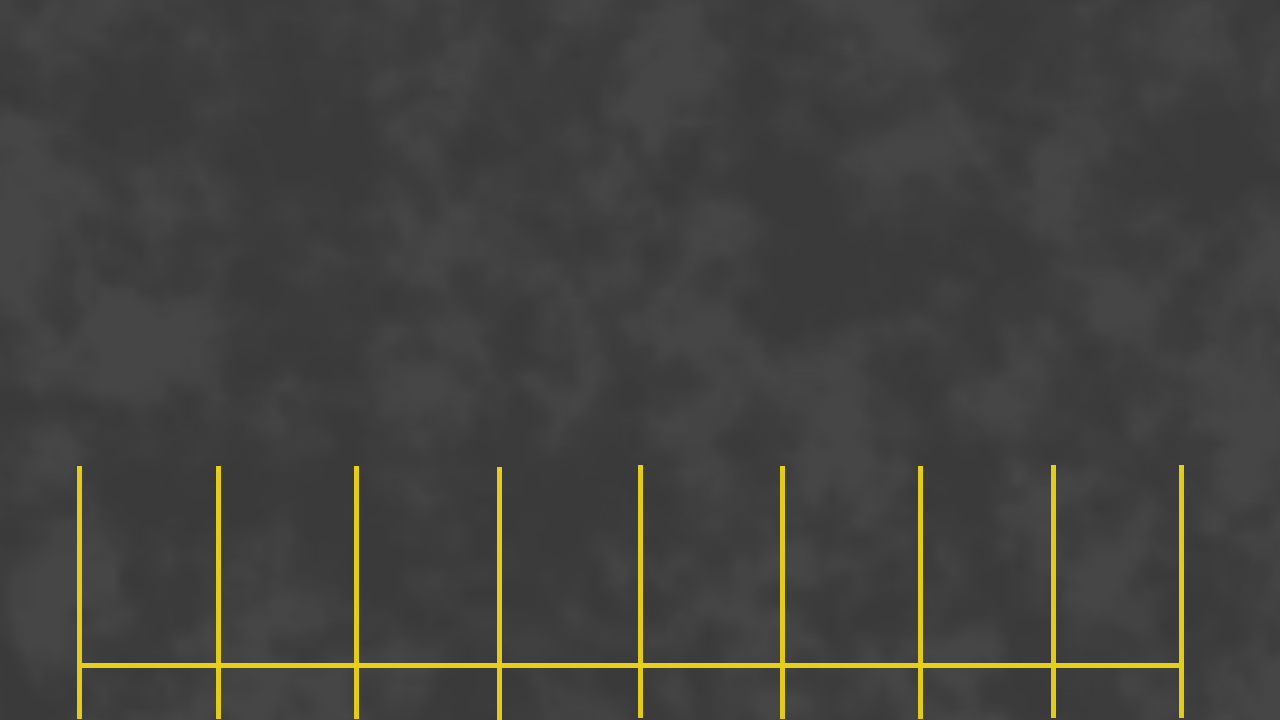
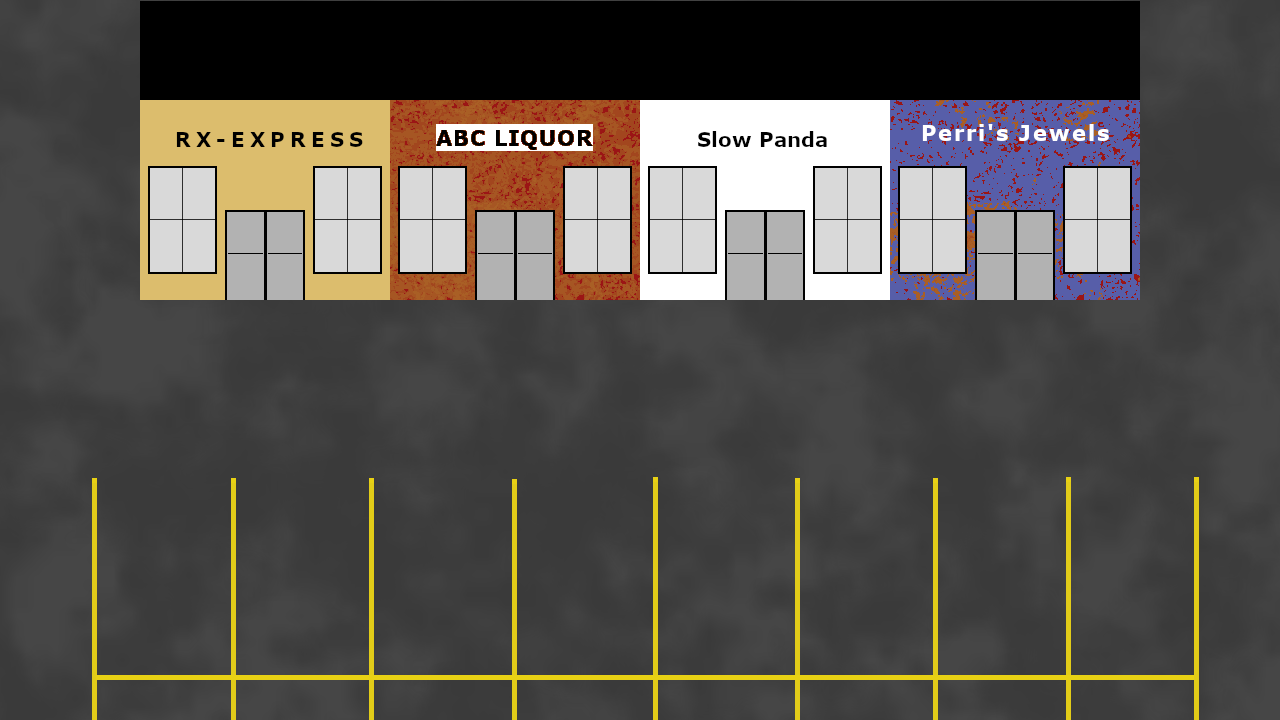
added temp stores in

diff --git a/SnakeEyes/Code/game.py b/SnakeEyes/Code/game.py
@@ -10,6 +10,7 @@ from preferences import Preferences
 # players cant move while touching a boundary
 # dont set off police on first alarm
 # last round hanling with police call/all alarms going straight to win screen
+#players can walk on buildings
 
 
 
@@ -61,22 +62,22 @@ class Game:
     def storeReset(self):
         self.store1 = Store()
         self.store1.storeNum = 1
-        self.store1.position = pygame.Vector2(300, 400)
+        self.store1.position = pygame.Vector2(250, 310)
         self.assignStoreStats(self.store1)
 
         self.store2 = Store()
         self.store2.storeNum = 2
-        self.store2.position = pygame.Vector2(500, 400)
+        self.store2.position = pygame.Vector2(500, 310)
         self.assignStoreStats(self.store2)
 
         self.store3 = Store()
         self.store3.storeNum = 3
-        self.store3.position = pygame.Vector2(700, 400)
+        self.store3.position = pygame.Vector2(750, 310)
         self.assignStoreStats(self.store3)
         
         self.store4 = Store()
         self.store4.storeNum = 4
-        self.store4.position = pygame.Vector2(900, 400)
+        self.store4.position = pygame.Vector2(1000, 310)
         self.assignStoreStats(self.store4)
         
 
@@ -210,7 +211,7 @@ class Game:
                             s.color = (0, 255, 0)
                             if p not in s.players:
                                 s.players.append(p)
-                            self.GAME_FONT.render_to(self.screen, (s.position.x-20, s.position.y-20), "Ready?", (0, 0, 0))
+                            #self.GAME_FONT.render_to(self.screen, (s.position.x-20, s.position.y-20), "Ready?", (0, 0, 0))
                             
                         else:
                             if len(s.players) == 0:
@@ -224,7 +225,8 @@ class Game:
 
         for s in self.Stores:
             pygame.draw.rect(self.screen, s.color, (s.position.x, s.position.y, 40,40))
-            self.GAME_FONT.render_to(self.screen, (s.position.x, s.position.y-100), s.scoreText, (0, 0, 0))
+            #needs to clear each round
+            self.GAME_FONT.render_to(self.screen, (s.position.x-100, s.position.y-290), s.scoreText, (255, 255, 255))
 
         ##### PLAYERS #####
         for p in self.Players:
@@ -240,13 +242,15 @@ class Game:
         #self.GAME_FONT.render_to(self.screen, (10, 30), "Dice 2: "+str(self.num2), (0, 0, 0))
 
         #self.GAME_FONT.render_to(self.screen, (10, 380), self.result, (0, 0, 0))
+        
         if self.police:
-                self.GAME_FONT.render_to(self.screen, (350, 120), "Press SPACE to continue...", (0, 0, 0))
+                self.GAME_FONT.render_to(self.screen, (350, 600), "Press SPACE to continue...", (0, 0, 0))
         else:
             if self.ready:
-                    self.GAME_FONT.render_to(self.screen, (350, 120), "Press SPACE to try your luck...", (0, 0, 0))
+                    self.GAME_FONT.render_to(self.screen, (350, 600), "Press SPACE to try your luck...", (0, 0, 0))
             else:
-                self.GAME_FONT.render_to(self.screen, (350, 120), "Waiting for Players to Select a Store", (0, 0, 0))
+                self.GAME_FONT.render_to(self.screen, (350, 600), "Waiting for Players to Select a Store", (0, 0, 0))
+                
 
         if self.alarmedStores > 0:
             if not self.police:
@@ -266,7 +270,8 @@ class Game:
         #self.GAME_FONT.render_to(self.screen, (10, 520), "Score:", (0, 0, 0))
         #self.GAME_FONT.render_to(self.screen, (10, 540), "P1: "+str(self.p1.score), (0, 0, 0))
         #self.GAME_FONT.render_to(self.screen, (10, 540), "P1: "+str(self.p1.score)+"   P2: "+str(self.p2.score)+"   P3: "+str(self.p3.score)+"   P4: "+str(self.p4.score), (0, 0, 0))
-        self.GAME_FONT.render_to(self.screen, (350, 20), "HIGHEST SCORE PAST "+str(self.winScore)+" WINS", (0, 0, 0))
+        
+        #self.GAME_FONT.render_to(self.screen, (350, 20), "HIGHEST SCORE PAST "+str(self.winScore)+" WINS", (0, 0, 0))
         if self.lastRound:
             self.GAME_FONT.render_to(self.screen, (350, 50), self.result, (0, 0, 0))
 
@@ -288,18 +293,18 @@ class Game:
         
     def status(self):
         for s in self.Stores:
-            self.GAME_FONT.render_to(self.screen, (s.position.x-20, s.position.y-80), "Store "+str(s.storeNum), (0, 0, 0))
+            #self.GAME_FONT.render_to(self.screen, (s.position.x-20, s.position.y-80), "Store "+str(s.storeNum), (0, 0, 0))
             if s.status == -1:
                 s.color = (255,0,0)
             else:
                 risk = ''
                 for x in range(s.risk):
                     risk = risk + '* '
-                self.GAME_FONT.render_to(self.screen, (s.position.x-20, s.position.y-60), "Risk: "+risk, (0, 0, 0))
+                self.GAME_FONT.render_to(self.screen, (s.position.x-100, s.position.y-260), "Risk: "+risk, (255, 255, 255))
                 reward = ''
                 for x in range(s.reward):
                     reward = reward + '$'
-                self.GAME_FONT.render_to(self.screen, (s.position.x-20, s.position.y-40), "Reward: "+reward, (0, 0, 0))
+                self.GAME_FONT.render_to(self.screen, (s.position.x-100, s.position.y-240), "Reward: "+reward, (255, 255, 255))
                 
 
         for p in self.Players:
